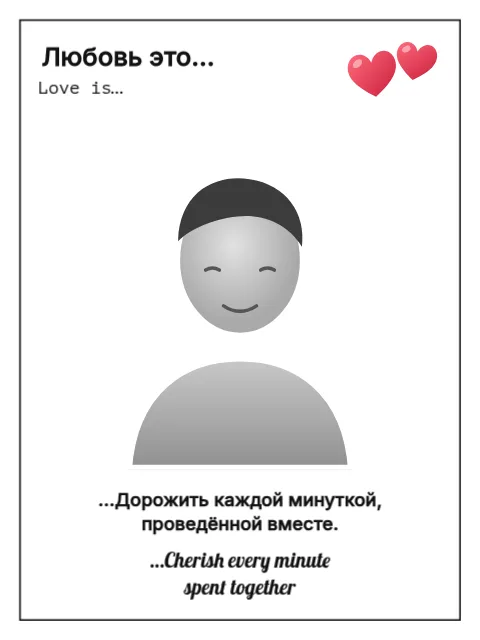
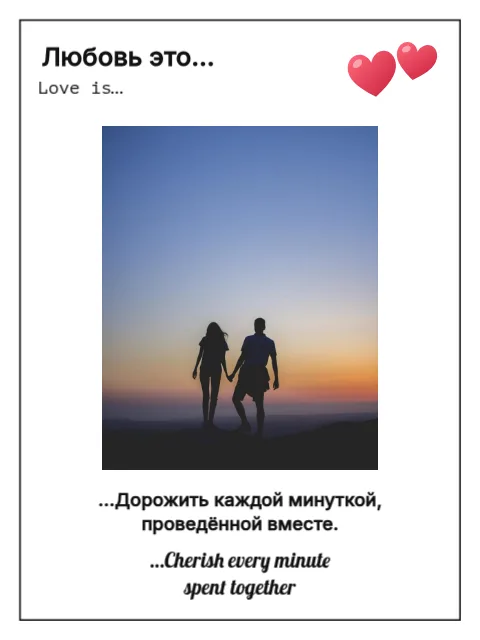
«Любовь это…»: в окне пара на закате (StockSnap CC0) вместо силуэта-заглушки; видео каталога перерендерено

Changed region(s): [[0.1875, 0.1875, 0.8125, 0.75]]

diff --git a/lib/editor/series.ts b/lib/editor/series.ts
@@ -246,7 +246,7 @@ function valFilm(): EditorDoc {
   ]);
 }
 
-/** «Любовь это…» — карточка в тонкой рамке, большое окно под фото, два сердца. */
+/** «Любовь это…» — карточка в тонкой рамке, большое окно с парой на закате, два сердца. */
 function valLoveIs(): EditorDoc {
   const ink = "#111111";
   const frameIn = anim({ in: "fade", inDuration: 0.5, delay: 0 });
@@ -262,14 +262,9 @@ function valLoveIs(): EditorDoc {
     }),
     sticker("heart-red", 466, 92, 0.48, -8, beat(1.2)),
     sticker("heart-red", 520, 76, 0.4, 10, beat(1.35, 1.5)),
-    sticker(
-      "photo-placeholder",
-      300,
-      372,
-      0.86,
-      0,
-      anim({ in: "zoom", inDuration: 0.7, delay: 1.5 }),
-    ),
+    // Пара на закате вместо силуэта (09.10.2026, просьба пользователя):
+    // та же рамка 344×430, своё фото обрезается под неё.
+    sticker("sample-sunset", 300, 372, 0.43, 0, anim({ in: "zoom", inDuration: 0.7, delay: 1.5 })),
     text("tpl.val-loveis.text", 300, 640, ink, "inter", 23, {
       bold: true,
       anim: anim({ in: "fade", inDuration: 0.8, delay: 2.3 }),

diff --git a/lib/editor/stickers.ts b/lib/editor/stickers.ts
@@ -321,6 +321,9 @@ export const STICKERS: readonly StickerInfo[] = [
       ["sample-amor-1", 300, 600, true],
       ["sample-amor-2", 300, 360, true],
       ["sample-amor-3", 300, 600, true],
+      // «Любовь это…» (series.ts): пара на закате, в цвете — просьба
+      // пользователя 09.10.2026 вместо силуэта-заглушки.
+      ["sample-sunset", 800, 1000, false],
     ] as const
   ).map(([id, width, height, mono]): StickerInfo => ({
     ...SAMPLE,

diff --git a/lib/editor/document.ts b/lib/editor/document.ts
@@ -237,6 +237,8 @@ export const STICKER_IDS = [
   "sample-amor-1",
   "sample-amor-2",
   "sample-amor-3",
+  // «Любовь это…»: пара на закате вместо силуэта (09.10.2026).
+  "sample-sunset",
   "kevin",
   "xmas-tree-photo",
   "gingerbread",

diff --git a/public/assets/stickers/CREDITS.md b/public/assets/stickers/CREDITS.md
@@ -111,6 +111,7 @@ picsum.photos по номеру, обрезаны по центру, `bw` — в
 - `sample-amor-1.jpg` — Scott Webb, https://stocksnap.io/photo/engagement-ring-4IFH7OWDL8
 - `sample-amor-2.jpg` — Shelby Deeter, https://stocksnap.io/photo/couple-love-0X3DOGA75K
 - `sample-amor-3.jpg` — frank mckenna, https://stocksnap.io/photo/couple-man-F7HEUYRTTH
+- `sample-sunset.jpg` — Caleb Ekeroth, https://stocksnap.io/photo/couple-love-6QXTZFW51U
 - `xmas-tree-photo.png` — Pawel Kadysz, https://stocksnap.io/photo/christmas-tree-ELVRAJB0NI
   (край срезан волной, 256 цветов)
 
